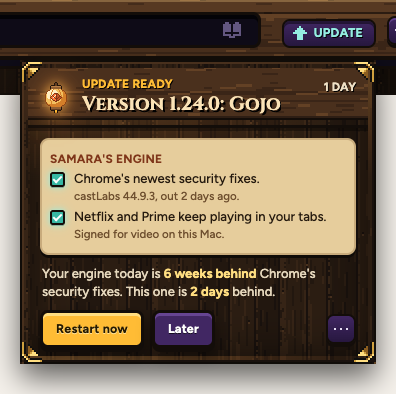
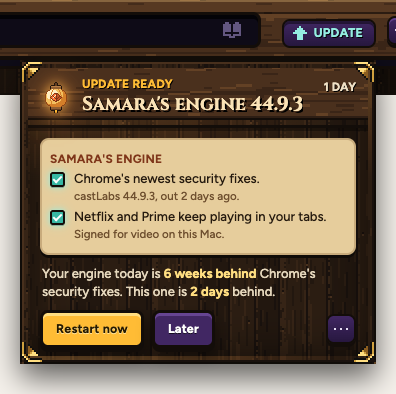
Sheet 105 v2: an engine-only update is titled by the engine, not a Samara version

Changed region(s): [[0.2121, 0.2437, 0.7879, 0.3046]]

diff --git a/src/Shell/test/electron/engine-card-shot.ts b/src/Shell/test/electron/engine-card-shot.ts
@@ -45,7 +45,7 @@ app.whenReady().then(async () => {
   const open = () => js(`(() => { const t = document.getElementById('uptray'); if (t.hidden) document.getElementById('upkey').click(); })()`);
 
   // 1. A new engine, ready: the engine's lines, and how far behind Chrome today's engine is.
-  b.setUpdate({ version: '44.9.3', since: Date.now() - 1.3 * 86_400_000, title: 'Version 1.24.0: Gojo', canBack: true, overnight: true, groups: [engine] });
+  b.setUpdate({ version: '44.9.3', since: Date.now() - 1.3 * 86_400_000, title: "Samara's engine 44.9.3", canBack: true, overnight: true, groups: [engine] });
   await wait(1200); await open(); await wait(600); await wait(2000);
   await para('Your engine today is <b>6 weeks behind</b> Chrome\'s security fixes. This one is <b>2 days</b> behind.');
   await shot('1-ready.png');
